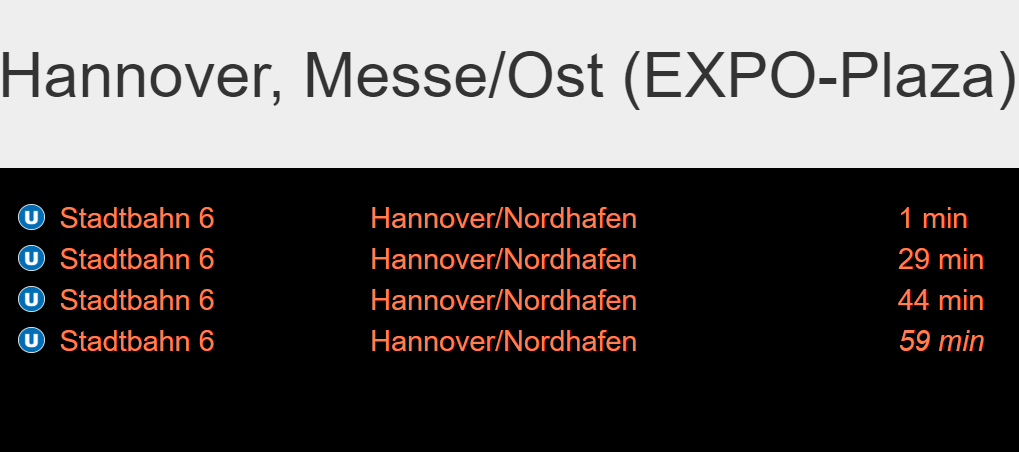
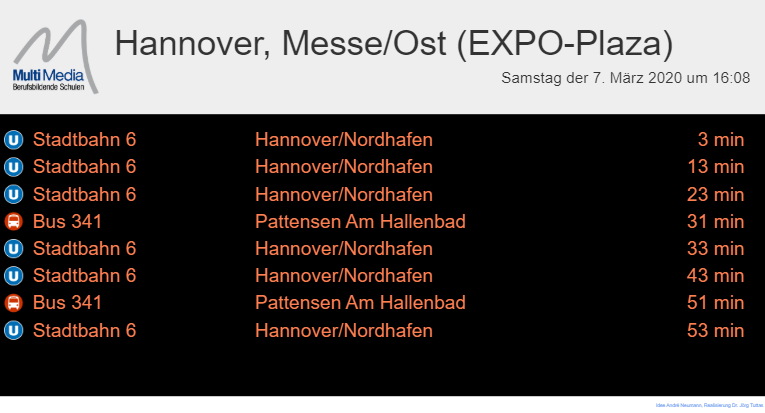
Mit Parametern

Changed region(s): [[0.0, 0.2615, 1.0, 0.8426], [0.0, 0.0291, 1.0, 0.2324], [0.0, 0.9588, 1.0, 1.0]]

diff --git a/public/bundle.js b/public/bundle.js
@@ -8,8 +8,18 @@ const jquery_1 = __importDefault(require("jquery"));
 class GUI {
     constructor(ws) {
         this.running = false;
+        this.rows = 5;
+        this.filter = null;
         this.start();
         this.ws = ws;
+        var urlParams = new URLSearchParams(window.location.search);
+        console.log(urlParams.has('rows'));
+        if (urlParams.has('rows')) {
+            this.rows = +urlParams.get('rows');
+        }
+        if (urlParams.has('filter')) {
+            this.filter = new RegExp('(' + urlParams.get('filter') + ')');
+        }
     }
     start() {
         this.running = true;
@@ -58,13 +68,14 @@ class GUI {
             jquery_1.default("#station").text(dataObj[0].station);
             this.updateTimer();
             dataObj.forEach((element) => {
-                if (i <= 4) {
+                if (i <= this.rows) {
                     console.log("Bearbeite element=" + JSON.stringify(element));
                     let realtime = false;
                     let dep = new Date(element.departue);
                     let rdep = null;
                     let dif = dep.getTime() - d.getTime();
                     let delay = 0;
+                    let rowString = element.type + " " + element.line + " " + element.destination;
                     if (element.rdepartue != null) {
                         realtime = true;
                         rdep = new Date(element.rdepartue);
@@ -74,34 +85,38 @@ class GUI {
                     }
                     let min = Math.round(dif / (1000 * 60));
                     //console.log("dep="+dep.getHours()+":"+dep.getMinutes()+" UTC"+dep.toUTCString()+" TimeZoneOffset"+dep.getTimezoneOffset()+" ISO"+dep.toISOString());
+                    /*
                     if (realtime) {
-                        console.log("*rt) min=" + min + " aktual:" + d.toLocaleTimeString() + " rdep=" + rdep.toLocaleTimeString() + " dif=" + dif);
+                        console.log("*rt) min="+min+" aktual:"+d.toLocaleTimeString()+" rdep="+rdep.toLocaleTimeString()+" dif="+dif);
                     }
                     else {
-                        console.log(" min=" + min + " aktual:" + d.toLocaleTimeString() + " dep=" + dep.toLocaleTimeString() + " dif=" + dif);
+                        console.log(" min="+min+" aktual:"+d.toLocaleTimeString()+" dep="+dep.toLocaleTimeString()+" dif="+dif);
                     }
+                    */
                     if (min > 0) {
-                        jquery_1.default("#content").append('<div class="row">');
-                        if (element.type == "Bus") {
-                            jquery_1.default("#content").append('<div class="col-xs-4 col-sm-4 col-md-4"><img class="img-responsive myrow myimg" src="bus.png">' + element.type + " " + element.line + '</div>');
+                        if (this.filter == null || this.filter.test(rowString)) {
+                            jquery_1.default("#content").append('<div class="row">');
+                            if (element.type == "Bus") {
+                                jquery_1.default("#content").append('<div class="col-xs-4 col-sm-4 col-md-4"><img class="img-responsive myrow myimg" src="bus.png">' + element.type + " " + element.line + '</div>');
+                            }
+                            else {
+                                jquery_1.default("#content").append('<div class="col-xs-4 col-sm-4 col-md-4"><img class="img-responsive myrow myimg" src="ubahn.png">' + element.type + " " + element.line + '</div>');
+                            }
+                            if (realtime && delay != 0) {
+                                jquery_1.default("#content").append('<div class="col-xs-6 col-sm-6 col-md-6">' + element.destination + "  (+" + delay + ' min) </div>');
+                            }
+                            else {
+                                jquery_1.default("#content").append('<div class="col-xs-6 col-sm-6 col-md-6">' + element.destination + '</div>');
+                            }
+                            if (realtime) {
+                                jquery_1.default("#content").append('<div class="col-xs-2 col-sm-2 col-md-2 minute">' + min + ' min</div>');
+                            }
+                            else {
+                                jquery_1.default("#content").append('<div class="col-xs-2 col-sm-2 col-md-2 minute"><i>' + min + ' min</i></div>');
+                            }
+                            jquery_1.default("#content").append('</div>');
+                            i++;
                         }
-                        else {
-                            jquery_1.default("#content").append('<div class="col-xs-4 col-sm-4 col-md-4"><img class="img-responsive myrow myimg" src="ubahn.png">' + element.type + " " + element.line + '</div>');
-                        }
-                        if (realtime && delay != 0) {
-                            jquery_1.default("#content").append('<div class="col-xs-6 col-sm-6 col-md-6">' + element.destination + "  (+" + delay + ' min) </div>');
-                        }
-                        else {
-                            jquery_1.default("#content").append('<div class="col-xs-6 col-sm-6 col-md-6">' + element.destination + '</div>');
-                        }
-                        if (realtime) {
-                            jquery_1.default("#content").append('<div class="col-xs-2 col-sm-2 col-md-2 minute">' + min + ' min</div>');
-                        }
-                        else {
-                            jquery_1.default("#content").append('<div class="col-xs-2 col-sm-2 col-md-2 minute"><i>' + min + ' min</i></div>');
-                        }
-                        jquery_1.default("#content").append('</div>');
-                        i++;
                     }
                 }
             });

diff --git a/client/GUI.ts b/client/GUI.ts
@@ -6,11 +6,23 @@ import { format } from "path";
 export class GUI {
     private running: boolean = false;
     private ws: WSController;
+    private rows:number=5;
+    private filter:RegExp=null;
 
     constructor(ws: WSController) {
         this.start();
         this.ws = ws;
+        var urlParams = new URLSearchParams(window.location.search);
+        console.log(urlParams.has('rows'));
+        if (urlParams.has('rows')) {
+            this.rows=+urlParams.get('rows');
+        }        
+        if (urlParams.has('filter')) {
+            this.filter= new RegExp('('+urlParams.get('filter')+')');
+        }        
+
     }
+
     public start(): void {
         this.running = true;
         this.timeout();
@@ -63,13 +75,14 @@ export class GUI {
             $("#station").text(dataObj[0].station);
             this.updateTimer();
             dataObj.forEach((element: Depature) => {
-                if (i <= 4) {
+                if (i <= this.rows) {
                     console.log("Bearbeite element="+JSON.stringify(element));
                     let realtime: boolean=false;
                     let dep:Date=new Date(element.departue);
                     let rdep:Date=null;
                     let dif: number = dep.getTime()-d.getTime();
                     let delay:number =0;
+                    let rowString=element.type+" "+element.line+" "+element.destination;
                     if (element.rdepartue!=null) {
                         realtime = true;
                         rdep = new Date(element.rdepartue);
@@ -79,39 +92,41 @@ export class GUI {
                     }
                     let min = Math.round(dif / (1000 * 60));
                     //console.log("dep="+dep.getHours()+":"+dep.getMinutes()+" UTC"+dep.toUTCString()+" TimeZoneOffset"+dep.getTimezoneOffset()+" ISO"+dep.toISOString());
-
+                    /*
                     if (realtime) {
                         console.log("*rt) min="+min+" aktual:"+d.toLocaleTimeString()+" rdep="+rdep.toLocaleTimeString()+" dif="+dif);
                     }
                     else {
                         console.log(" min="+min+" aktual:"+d.toLocaleTimeString()+" dep="+dep.toLocaleTimeString()+" dif="+dif);
                     }
-
+                    */
                     if (min > 0) {
+                        if (this.filter==null || this.filter.test(rowString)) {
 
-                        $("#content").append('<div class="row">');
-                        if (element.type == "Bus") {
-                            $("#content").append('<div class="col-xs-4 col-sm-4 col-md-4"><img class="img-responsive myrow myimg" src="bus.png">' + element.type + " " + element.line + '</div>');
-                        }
-                        else {
-                            $("#content").append('<div class="col-xs-4 col-sm-4 col-md-4"><img class="img-responsive myrow myimg" src="ubahn.png">' + element.type + " " + element.line + '</div>');
-                        }
-                        if (realtime && delay!=0) {
-                            $("#content").append('<div class="col-xs-6 col-sm-6 col-md-6">' + element.destination +"  (+"+delay+' min) </div>');
-                        }
-                        else {
-                            $("#content").append('<div class="col-xs-6 col-sm-6 col-md-6">' + element.destination + '</div>');
-                        }
-                        if (realtime) {
-                            $("#content").append('<div class="col-xs-2 col-sm-2 col-md-2 minute">' + min + ' min</div>');
-                        }
-                        else {
-                            $("#content").append('<div class="col-xs-2 col-sm-2 col-md-2 minute"><i>' + min + ' min</i></div>');
+                            $("#content").append('<div class="row">');
+                            if (element.type == "Bus") {
+                                $("#content").append('<div class="col-xs-4 col-sm-4 col-md-4"><img class="img-responsive myrow myimg" src="bus.png">' + element.type + " " + element.line + '</div>');
+                            }
+                            else {
+                                $("#content").append('<div class="col-xs-4 col-sm-4 col-md-4"><img class="img-responsive myrow myimg" src="ubahn.png">' + element.type + " " + element.line + '</div>');
+                            }
+                            if (realtime && delay!=0) {
+                                $("#content").append('<div class="col-xs-6 col-sm-6 col-md-6">' + element.destination +"  (+"+delay+' min) </div>');
+                            }
+                            else {
+                                $("#content").append('<div class="col-xs-6 col-sm-6 col-md-6">' + element.destination + '</div>');
+                            }
+                            if (realtime) {
+                                $("#content").append('<div class="col-xs-2 col-sm-2 col-md-2 minute">' + min + ' min</div>');
+                            }
+                            else {
+                                $("#content").append('<div class="col-xs-2 col-sm-2 col-md-2 minute"><i>' + min + ' min</i></div>');
 
-                        }
-                        $("#content").append('</div>');
+                            }
+                            $("#content").append('</div>');
 
-                        i++;
+                            i++;
+                        }
                     }
                 }
             });

diff --git a/GVH.ts b/GVH.ts
@@ -11,7 +11,7 @@ export class GVH {
         let mm:string=this.format(date.getMinutes());
         let yyyymmdd:string=date.getFullYear()+this.format(date.getMonth()+1)+this.format(date.getDate());
         let response: any = {};
-        let url:string="https://efa107.efa.de/efaws2/default/XML_DM_REQUEST?outputFormat=JSON&sessionID=0&requestID=0&language=de&useRealtime=1&coordOutputFormat=WGS84[DD.ddddd]&locationServerActive=1&mode=direct&dmLineSelectionAll=1&depType=STOPEVENTS&useAllStops=1&command=null&type_dm=stop&name_dm="+station+"&itdTime="+hh+mm+"&itdDate="+yyyymmdd+"&outputEncoding=UTF-8&inputEncoding=UTF-8&mId=efa_www";
+        let url:string="https://www.efa.de/efaws2/default/XML_DM_REQUEST?outputFormat=JSON&sessionID=0&requestID=0&language=de&useRealtime=1&coordOutputFormat=WGS84[DD.ddddd]&locationServerActive=1&mode=direct&dmLineSelectionAll=1&depType=STOPEVENTS&useAllStops=1&command=null&type_dm=stop&name_dm="+station+"&itdTime="+hh+mm+"&itdDate="+yyyymmdd+"&outputEncoding=UTF-8&inputEncoding=UTF-8&mId=efa_www";
         console.log("URL:"+url);
         await request({
             url: url,

diff --git a/README.md b/README.md
@@ -33,6 +33,11 @@ Anschließend kann das Tool verwendet werden, um die übersetzen TS Datei in ein
 browserify client/main.js -o public/bundle.js
 
 ```
+Der Client kann über zwei Parameter gesteuert werden. 
+- **rows**: Gibt die Anzahl der Zeilen aus, die angezeigt werden.
+- **filter**: Filtert die Ergebnisliste mit Hilfe eines Regulären Ausdrucks.
+
+So zeigt der Aufruf *http://{Server-IP}?rows=4&filter=Bus* die nächsten 4 Busverbindungen der Haltestelle an.
 
 ## Docker Container
 Es existiert auch ein Dockercontainer. Dieser kann wie folgt gestartet werden:
